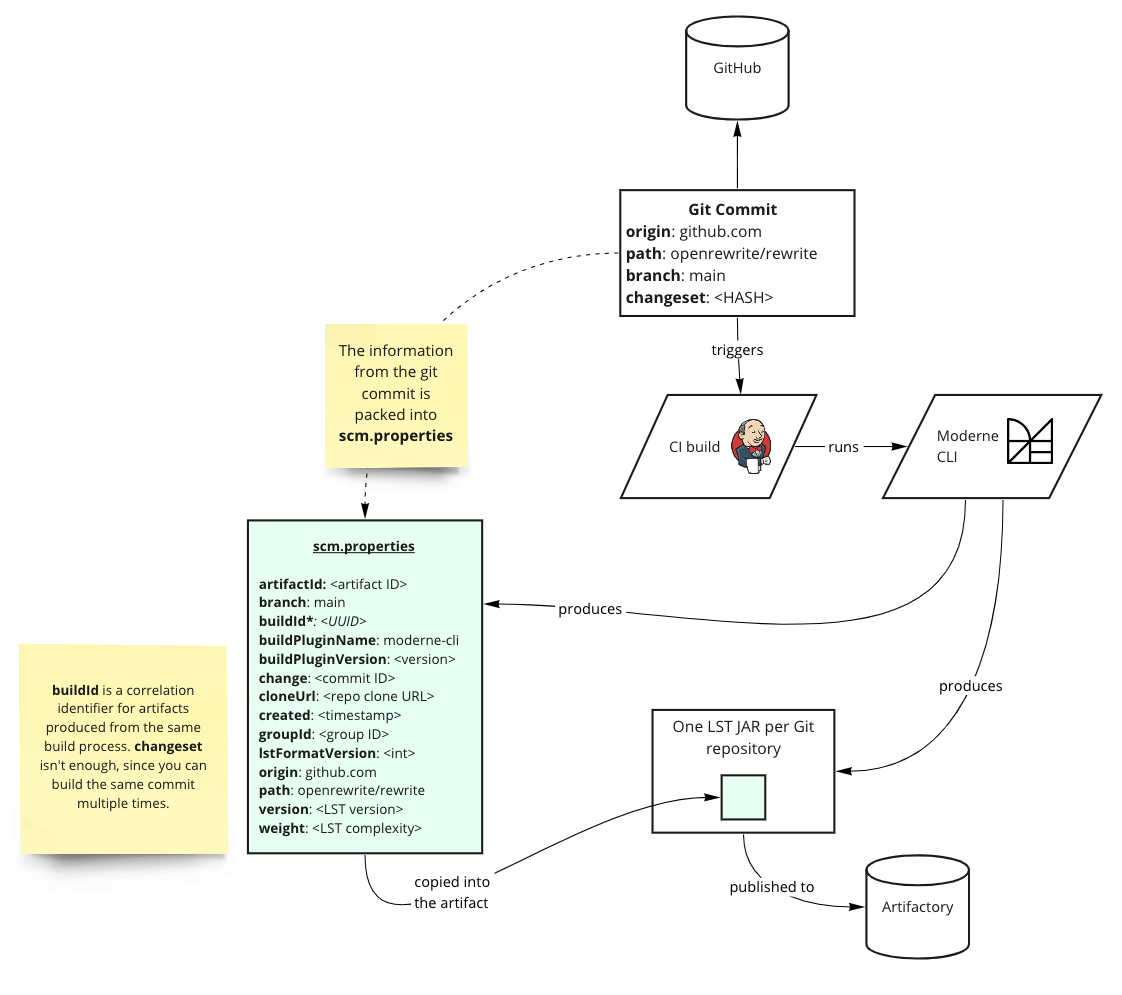
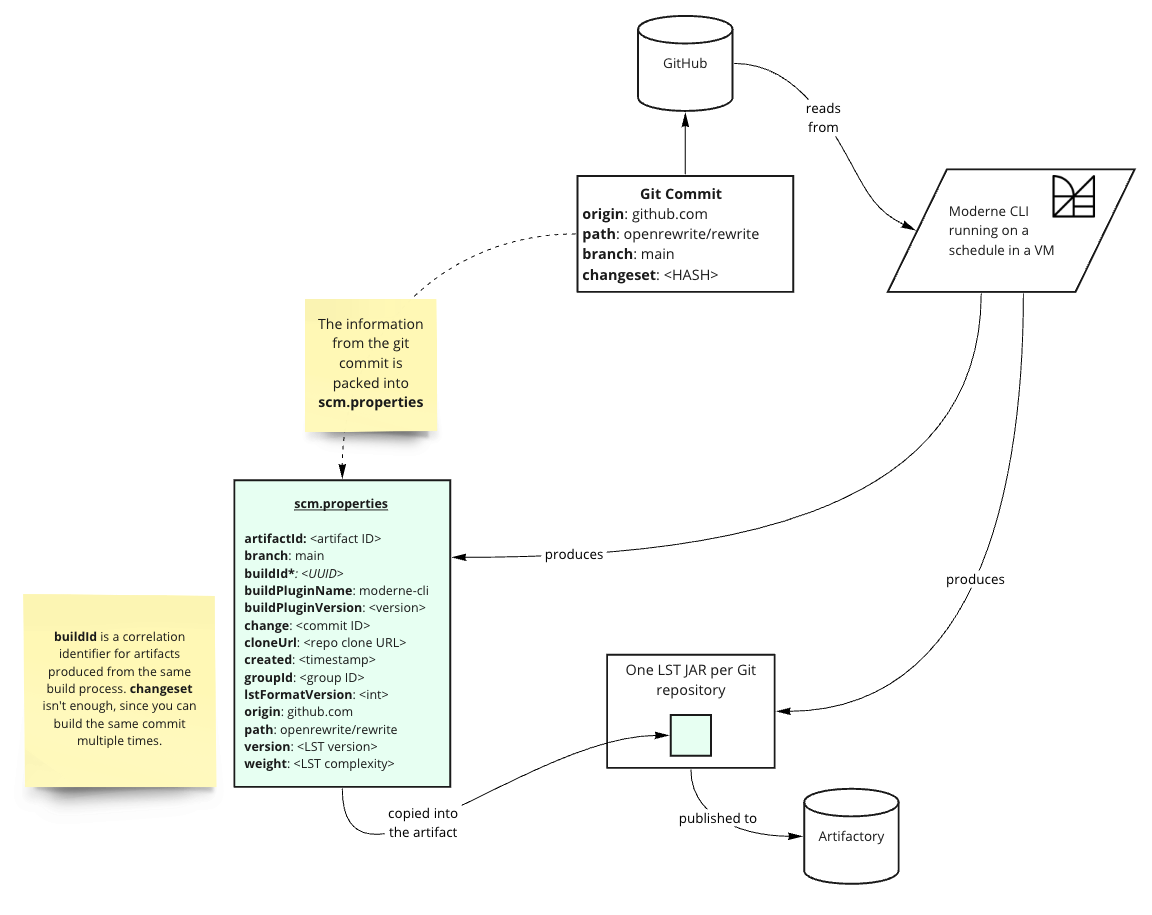
Get rid of more CI things

diff --git a/administrator-documentation/references/how-ast-artifacts-are-produced.md b/administrator-documentation/references/how-ast-artifacts-are-produced.md
@@ -19,15 +19,13 @@ layout:
 
 Moderne operates on a format-preserving and type-attributed Lossless Semantic Tree (LST) which is an intermediate, compiler-produced representation of the code. This LST can be projected losslessly back to the original source code (including all of its original formatting) but contains far more information than the text of the original code.
 
-This LST artifact is either produced by the [Moderne CLI](../../user-documentation/getting-started/cli-intro.md) (**recommended**) or by the [Moderne build plugins](../how-to-guides/integrating-private-code.md#mavengradle-plugins). These artifacts are typically produced in CI jobs (usually created by the [mod-connect tool](https://github.com/moderneinc/mod-connect)) that run on GitHub or Jenkins and they are designed to be published to an artifact repository alongside other artifacts such as binary JARs, JavaDocs, sources, etc.
+This LST artifact is built and published to your artifact repository alongside other artifacts (such as binary JARs, JavaDocs, sources, etc.) by the [Moderne CLI](../../user-documentation/getting-started/cli-intro.md). For information on how to set that up, please see our [integrating private code doc](/administrator-documentation/how-to-guides/integrating-private-code.md).
 
-In this doc, we'll illustrate the relationship between the various components: source control, commits, CI builds, the Moderne CLI / Moderne build plugins, and the artifact repository.
+In this doc, we'll illustrate the relationship between the various components: source control, commits, the Moderne CLI, and the artifact repository.
 
 ## Moderne CLI flow
 
-1. **Git commit** - The process that creates the LST artifact begins when code is committed to a long-living branch in your SCM that you want Moderne to ingest (such as the `main` branch). This commit should trigger a CI build of the repository.
-2. **CI build** - The CI build checks out and compiles the source code at this commit and then runs the [Moderne CLI publish command](../../user-documentation/getting-started/cli-intro.md#publish). The CI system in use doesn't matter. It could be Jenkins, GitHub Actions, CircleCI, Concourse, etc.
-3. **Moderne CLI** - The Moderne CLI will create one LST artifact (not in a JAR format) per subproject. Once these LST artifacts have been built, the Moderne CLI will combine them all into a JAR and add a `scm.properties` file to it that provides key information about the build (such as a unique `buildId` that identifies this particular build process). Lastly, the Moderne CLI will push this JAR to the artifact repository of your choice.
+After setting up mass ingestion in the Moderne CLI, one LST artifact (not in a JAR format) will be produced per subproject. Once all of these artifacts have been built, the Moderne CLI will combine them all into a JAR and add a `scm.properties` file to it that provides key information about the build (such as a unique `buildId` that identifies this particular build process). After all of that is done, the Moderne CLI will push this JAR to the artifact repository of your choice.
 
 {% hint style="info" %}
 Some subprojects might not publish artifacts – such as benchmarking, testing, or sample subprojects. The Moderne CLI is designed to publish LST artifacts for these subprojects anyway.
@@ -40,25 +38,6 @@ The `buildId` correlation identifier is necessary to identify artifacts emanatin
 
 We still preserve the changeset, as this is the starting point of any later commit workflow after a recipe run in Moderne, but `buildId` is how we group artifacts from the same build process together to form an overall understanding of the code at the time this build occurred.
 
-Build ids increase over time; so newer LSTs will have a higher `buildId`.
-{% endhint %}
-
-## Moderne build plugin flow
-
-1. **Git commit** - The process that creates the LST artifact begins when code is committed to a long-living branch in your SCM that you want Moderne to ingest (such as the `main` branch). This commit should trigger a CI build of the repository.
-2. **CI build** - The CI build checks out and compiles the source code at this commit and then executes the Maven or Gradle build task in the relevant Moderne build plugin. The CI system used in this step does not matter. It could be Jenkins, GitHub Actions, CircleCI, Concourse, etc.
-3. **Moderne build plugin** - The Moderne build plugins will create one JAR per subproject. Each JAR contains an LST artifact which, itself, contains the serialized representation of the LST along with a `scm.properties` file. The `scm.properties` file provides key information about the build (such as a unique `buildId` that identifies this particular build process). Once these JARs have all been built, the build plugin will publish each JAR to the artifact repository of your choice.
-
-{% hint style="info" %}
-Some subprojects might not publish artifacts – such as benchmarking, testing, or sample subprojects. The Moderne build plugins are designed to publish LST artifacts for these subprojects anyway.
-{% endhint %}
-
-![The flow of data from source control to LST artifacts in Artifactory](../../.gitbook/assets/plugin-lst-flow.png)
-
-{% hint style="info" %}
-The `buildId` correlation identifier is necessary to identify artifacts emanating from a particular build _process_. This is because builds of the same git changeset will not necessarily produce the same LST, as the project may have dependencies with dynamic version constraints that resolve to different versions for different builds of the same changeset.
-
-We still preserve the changeset, as this is the starting point of any later commit workflow after a recipe run in Moderne, but `buildId` is how we group artifacts from the same build process together to form an overall understanding of the code at the time this build occurred.
-
 Build IDs increase over time; so newer LSTs will have a higher `buildId`.
 {% endhint %}
+

diff --git a/administrator-documentation/references/architecture/architecture.md b/administrator-documentation/references/architecture/architecture.md
@@ -10,7 +10,7 @@ To help you understand how the Moderne platform works and how it interacts with 
 
 Moderne’s SaaS allows permitted users to run [recipes](https://docs.openrewrite.org/concepts-and-explanations/recipes) on code in the repositories you've added to the platform. These recipes can yield pull requests (PRs) or commits that transform the code.
 
-As the code changes (either due to recipe results being merged in or due to active development), an artifact that contains a serialized representation of the code's [Lossless Semantic Tree](../concepts/lossless-semantic-trees.md) (LST) will need to be generated and published (See the [Moderne CLI on a VM](architecture.md#moderne-cli-on-a-vm) section for more information on how to publish artifacts and the [Moderne agent](architecture.md#moderne-agent) section for more information on how these artifacts are encrypted and securely transmitted).
+As the code changes (either due to recipe results being merged in or due to active development), an artifact that contains a serialized representation of the code's [Lossless Semantic Tree](../concepts/lossless-semantic-trees.md) (LST) will need to be generated and published.
 
 Once the artifact is published, the Moderne agent will send the changes to Moderne so that the internal state can be updated. After that happens, new recipes can be run against the new artifacts and the process will repeat.
 
@@ -28,7 +28,7 @@ Below is a high-level architecture diagram that shows the flow of data between M
 
 In order for Moderne to know the current state of your code, artifacts will need to be generated that contain a serialized representation of your code's [LSTs](../concepts/lossless-semantic-trees.md). These artifacts must be put inside an artifact repository that the [Moderne agent](architecture.md#moderne-agent) has access to.
 
-For instructions on how to use the Moderne CLI to build and publish artifacts, please read our [integrating private code with Moderne doc](/administrator-documentation/how-to-guides/integrating-private-code.md).
+To do this, you'll want to run Moderne CLI build and publish commands on your repositories in a VM on a schedule. For instructions on how to do this, please read our [integrating private code with Moderne doc](/administrator-documentation/how-to-guides/integrating-private-code.md).
 
 The LST artifacts published by the CLI will be added to your existing artifact repository alongside binary, source, and JavaDoc artifacts that are already created by your team's normal publishing mechanisms. Since the LST artifacts are added to your existing artifact repository, _no additional credentials are needed_.
 

diff --git a/administrator-documentation/references/concepts/lossless-semantic-trees.md b/administrator-documentation/references/concepts/lossless-semantic-trees.md
@@ -47,7 +47,7 @@ If you want to see specific examples of Java LSTs, please read our [Java LST Exa
 2. When you go to run a recipe, the LST artifact will be downloaded from your artifact repository. These LSTs are continuously uploaded/updated over time as long as you've set up ingestion for your repositories.
 3. As the recipe runs, it will make transformations on the downloaded LST. This could be as simple as adding a search marker (`~~>`) if the recipe is a search recipe -- or it could be as complex as adding classes and methods throughout the repository.
 4. Once the recipe has finished running, the **modified LST will be discarded** and the code **will not** be changed. Instead, you will be [provided with a list of the changes it would make](../../../user-documentation/getting-started/running-your-first-recipe.md#step-6-run-the-recipe). You can [review them](../../../user-documentation/getting-started/running-your-first-recipe.md#step-7-view-the-results) and [choose what to do with them](../../../user-documentation/getting-started/running-your-first-recipe.md#step-8-commit-your-changes).
-5. Regardless of what you choose to do with the results, future recipe runs **will not** have those changes unless you commit them and have the CI job re-build/publish the LST to your artifact repository.
+5. Regardless of what you choose to do with the results, future recipe runs **will not** have those changes unless you commit them and the Moderne CLI ingestion job runs again to publish the LSTs to your artifact repository.
 
 {% hint style="info" %}
 You might be wondering, "Hey - if LSTs are ingested only once I publish them via the CLI, wouldn't that mean they're out-of-date if we run multiple recipes against them?" While that _can_ be true, in most situations, it's not an issue as Moderne rebases recipe results when committing and recipes rarely conflict in such an extreme way.

diff --git a/user-documentation/getting-started/cli-intro.md b/user-documentation/getting-started/cli-intro.md
@@ -203,7 +203,7 @@ Below, we'll provide some context for the core commands.
 
 The `build` command generates the LST artifacts for one or more projects. Once generated, the artifacts can be uploaded to your artifact management tool so that Moderne can ingest them - or - they can be used to run recipes locally.
 
-While it is possible to manually build and publish your artifacts, we strongly recommend setting up a CI system to run these commands.
+While it is possible to manually build and publish your artifacts, we strongly recommend [setting up a mass ingest job](/administrator-documentation/how-to-guides/integrating-private-code.md) to do this in a VM.
 
 If the path provided to this command is not a Git repository, then this command will recursively look through all the directories on the path for Git repositories. You can specify `repository-*` options to filter this to your needs.
 
@@ -217,7 +217,7 @@ If you've set up a connection with Moderne (by running the `mod config moderne` 
 
 The publish command allows you to manually publish LST artifacts for one or more projects. Once published to your artifact management tool, Moderne will be able to ingest them and they will, in turn, be usable inside of the SaaS.
 
-This command is typically used for publishing LST artifacts from CI systems.
+This command is typically used for publishing LST artifacts from the [mass ingest job you create in a VM](/administrator-documentation/how-to-guides/integrating-private-code.md).
 
 You can also use this command for _debugging purposes_ if you want to do a one-off test of uploading an artifact somewhere.
 
